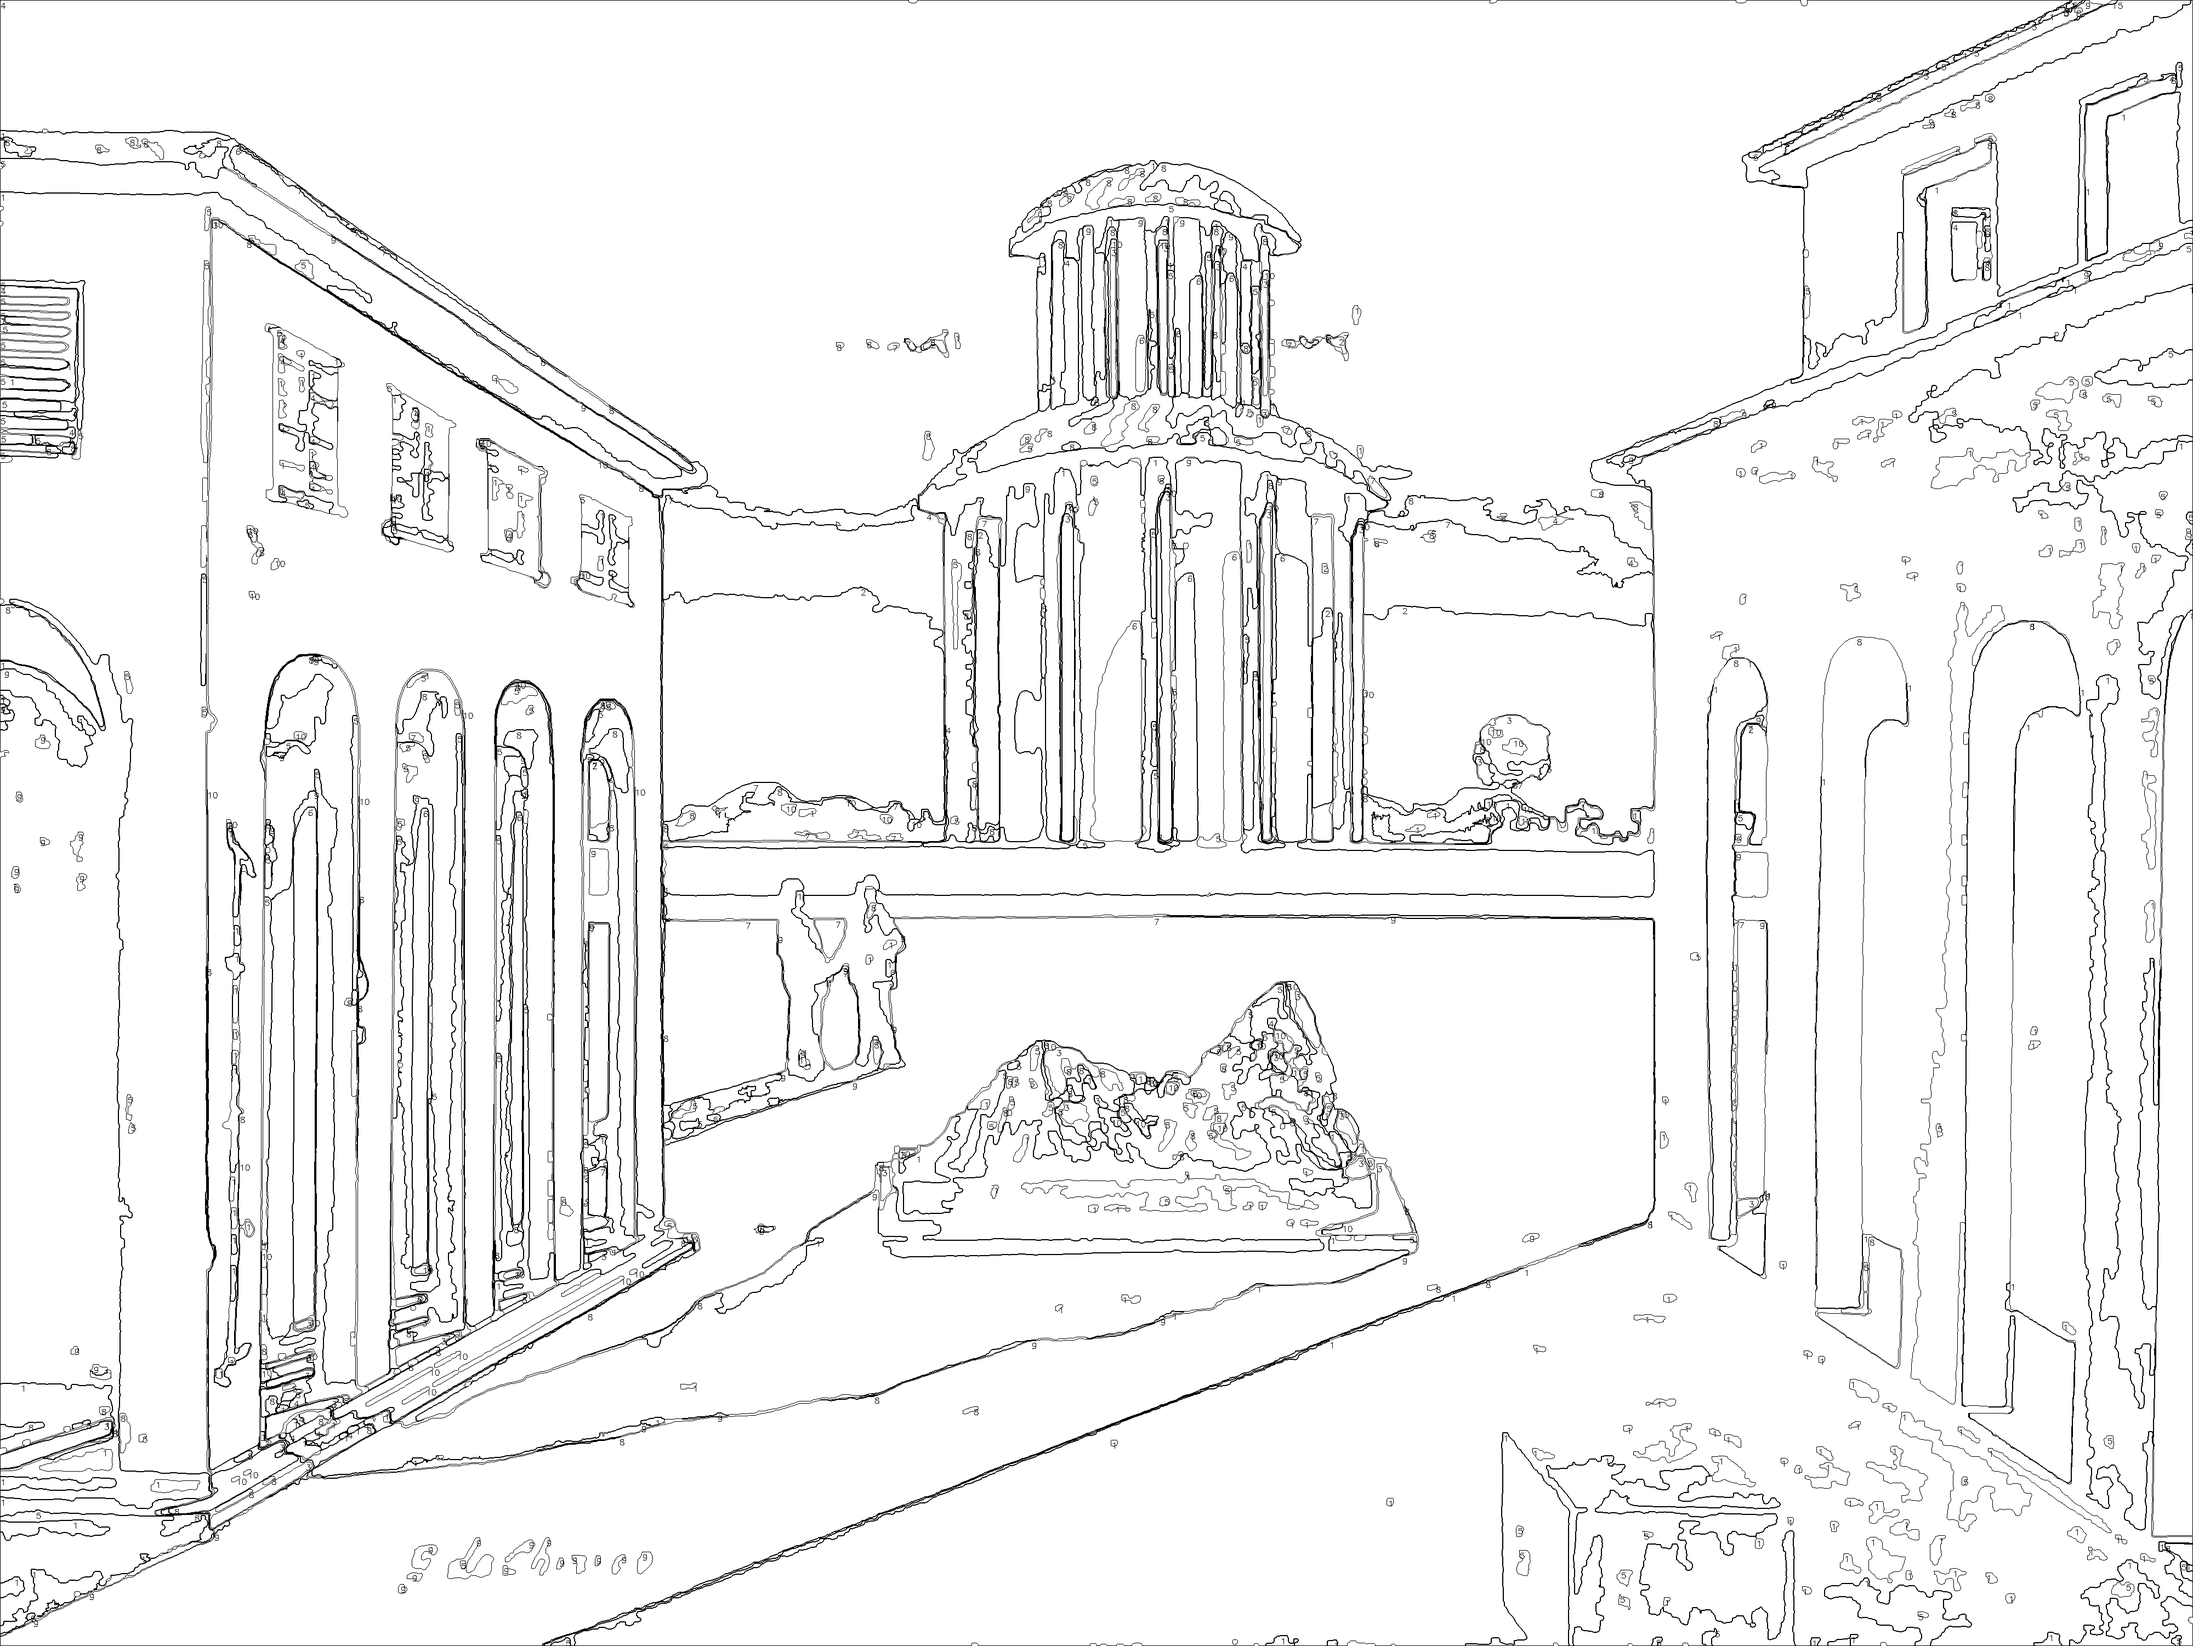
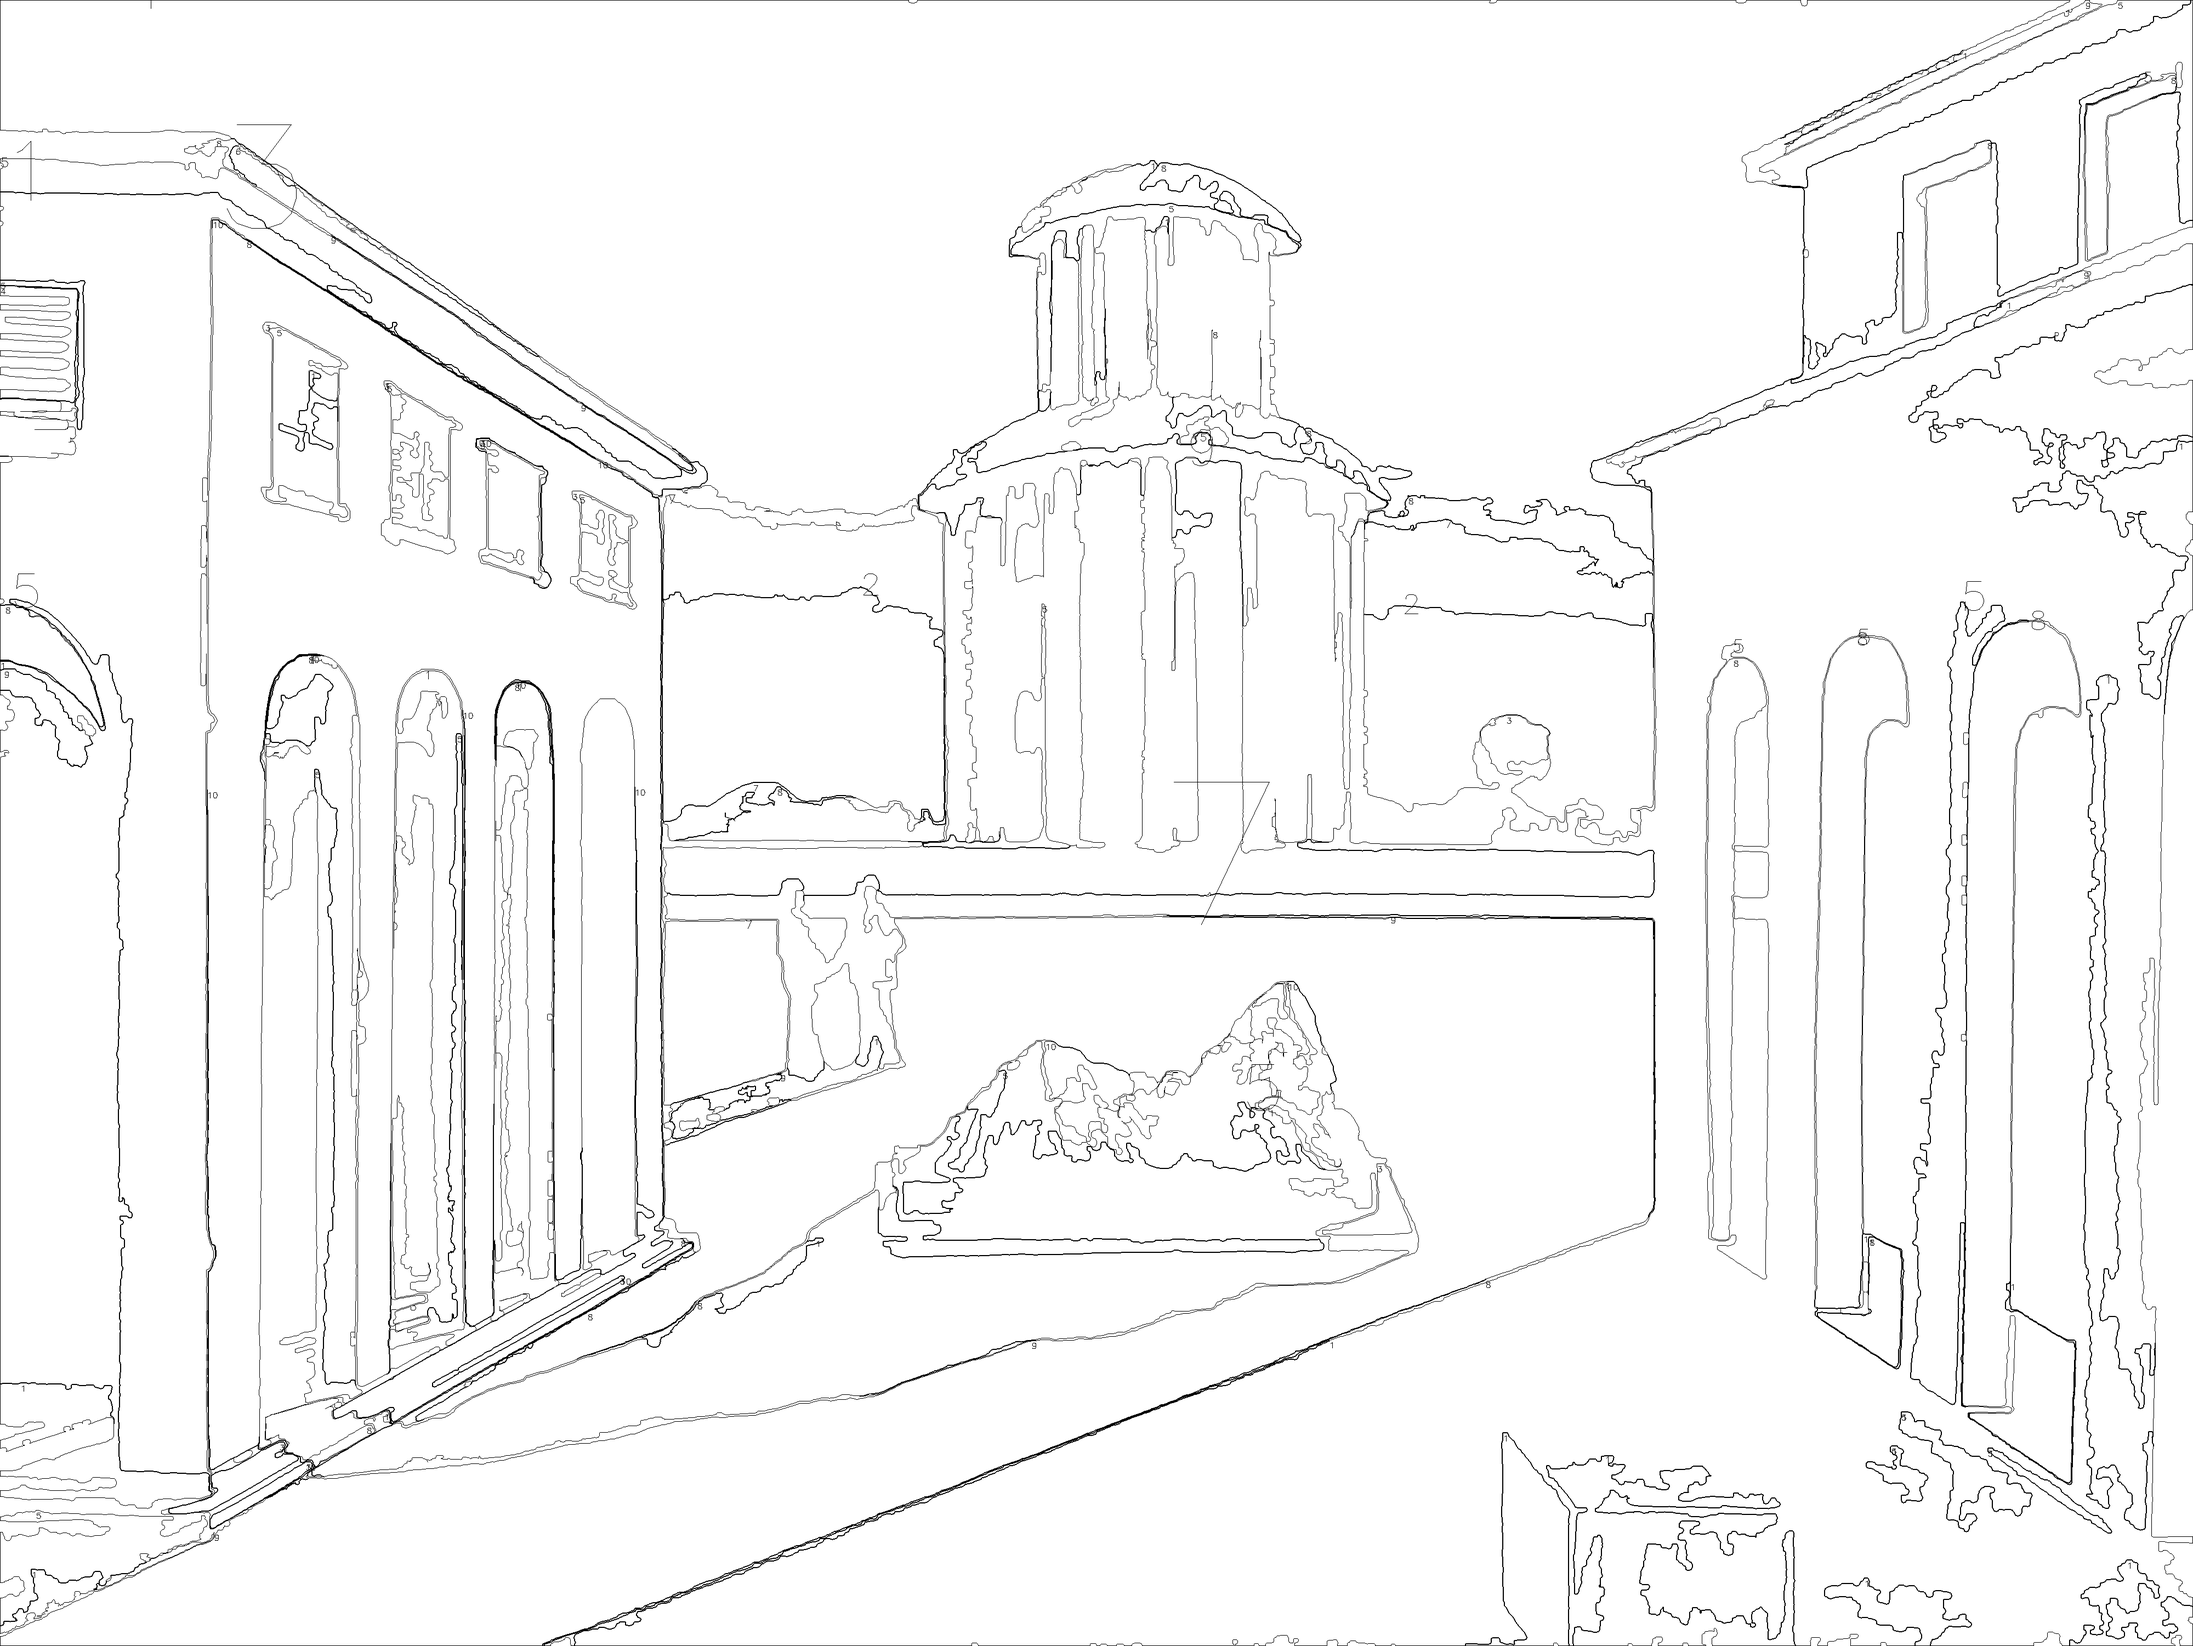
update gitignore, add min contour size

diff --git a/canvas.py b/canvas.py
@@ -29,7 +29,7 @@ class Canvas():
         size in pxl of the largest dimension of the ouptut canvas    
     """
 
-    def __init__(self, path_pic, nb_color, plot=False, save=True, pixel_size=4000):
+    def __init__(self, path_pic:str, nb_color:int, plot:bool = False, save:bool = True, pixel_size:int = 4000, min_contour_size:int = 15):
         
         self.namefile = Path(path_pic).stem
         self.src = cv2.cvtColor(cv2.imread(path_pic), cv2.COLOR_BGR2RGB)
@@ -38,6 +38,7 @@ class Canvas():
         self.save = save
         self.tar_width = int(pixel_size)
         self.colormap = []
+        self.min_contour_size = min_contour_size
 
 
     def generate(self):
@@ -53,19 +54,27 @@ class Canvas():
             self.colormap.append([int(c * 255) for c in color])
             mask = cv2.inRange(quantified_image, color, color)
 
+            # Find image contours -- using RETR_LIST because no hierarchy should be detected between contours
+            # Using CHAIN_APPROX_NONE to store all contour data, rather than corner points with cv2.CHAIN_APPROX_SIMPLE
             cnts = cv2.findContours(mask, cv2.RETR_LIST, cv2.CHAIN_APPROX_NONE)
             cnts = cnts[0] if len(cnts) == 2 else cnts[1]
 
             for contour in cnts:
                 _, _, width_ctr, height_ctr = cv2.boundingRect(contour)
-                if width_ctr > 10 and height_ctr > 10 and cv2.contourArea(contour, True) < -100:
+                contour_area = cv2.contourArea(contour)
+                print(contour_area)
+                if (width_ctr > self.min_contour_size) and (height_ctr > self.min_contour_size) and (contour_area > 100):
                     cv2.drawContours(canvas, [contour], -1, 0, 1)
 
-                    # Add label
+                    # dynamically scale font size of labels
+                    font_size = max(0.5, abs(contour_area) / 100000)
+
+                    # Add color label
                     txt_x, txt_y = contour[0][0]
+                    txt_y = txt_y + 15
                     cv2.putText(canvas, f"{ind + 1}",
-                                (txt_x, txt_y + 15),
-                                cv2.FONT_HERSHEY_SIMPLEX, 0.5, 0, 1) # TODO: make font-scale dependent on contour size (with lims)
+                                (txt_x, txt_y),
+                                cv2.FONT_HERSHEY_SIMPLEX, font_size, 0, 1) # TODO: make font-scale dependent on contour size (with lims)
 
         # Plot or save image as desired
         if self.plot:

diff --git a/run.py b/run.py
@@ -24,13 +24,13 @@ if __name__ == "__main__":
                         help="optional, interger, size in pixel of the largest dimension of the output canvas (default 4000)")
     parser.add_argument("--colormap", default=False, type=bool, 
                         help="optional, if True, display colormap used from source image (default True)")
+    parser.add_argument("--min-contour-size", default=15, type=int, 
+                        help="optional, minimum contour size (width or height) to be plotted (default 15 px)")
 
     args = parser.parse_args()
 
     # Create image and plot
-    CANVAS = Canvas(args.path, args.n, args.plot, args.save, args.pixel_size)
-
-    print(CANVAS.namefile)
+    CANVAS = Canvas(args.path, args.n, args.plot, args.save, args.pixel_size, args.min_contour_size)
 
     CANVAS.generate()
 
